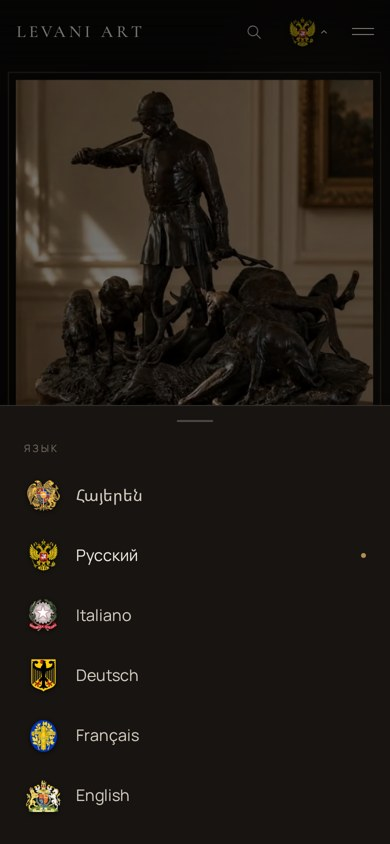
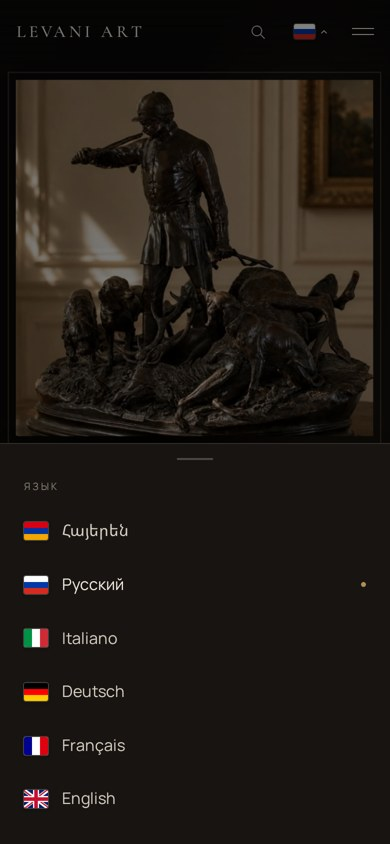
LEVANI ART: переключатель языков — флаги вместо гербов
По просьбе владельца гербы заменены флагами (только флаги): Армения,
Россия, Италия, Германия, Франция, Великобритания для English. SVG 4:3
из flag-icons (npm coat-of-arms, MIT), каждый меньше 1 КБ, в
public/flags. Скруглённые углы и тонкая светлая обводка, чтобы белые
полосы читались на тёмном фоне. Header, меню, bottom sheet на телефоне,
мобильное меню и футер. Гербы (public/emblems) удалены.

Тесты: e2e 64/64, smoke-набор 58/58 локально (проверяет флаг каждого
языка и отсутствие старых гербов).

Claude-Session: https://claude.ai/code/session_01CK4YWyoSurhNeFzWMvfBhv

diff --git a/sites/levani-art/tests/smoke/production.spec.ts b/sites/levani-art/tests/smoke/production.spec.ts
@@ -2,7 +2,7 @@ import { expect, test, type Page } from '@playwright/test';
 import source from '../../src/content/catalog.source.json';
 
 const LOCALES = ['hy', 'ru', 'it', 'de', 'fr', 'en'] as const;
-const EMBLEM: Record<string, string> = { hy: 'am', ru: 'ru', it: 'it', de: 'de', fr: 'fr', en: 'gb' };
+const FLAG: Record<string, string> = { hy: 'am', ru: 'ru', it: 'it', de: 'de', fr: 'fr', en: 'gb' };
 const NAMES: Record<string, string> = {
   hy: 'Հայերեն', ru: 'Русский', it: 'Italiano', de: 'Deutsch', fr: 'Français', en: 'English',
 };
@@ -79,7 +79,7 @@ test('root / sends the visitor to a language', async ({ page }) => {
 });
 
 for (const l of LOCALES) {
-  test(`${l}: home — lang, SEO, emblem, images, no overflow, no /_next/image`, async ({ page }) => {
+  test(`${l}: home — lang, SEO, flag, images, no overflow, no /_next/image`, async ({ page }) => {
     const hits = watchOptimizer(page);
     const res = await page.goto(`/${l}/`);
     expect(res?.status()).toBe(200);
@@ -95,8 +95,9 @@ for (const l of LOCALES) {
     await expect(page.locator('meta[property="og:title"]')).toHaveAttribute('content', /LEVANI ART/);
     await expect(page.locator('meta[property="og:url"]')).toHaveAttribute('content', `${base}/${l}/`);
     await expect(page.locator('meta[name="twitter:card"]')).toHaveCount(1);
-    const emblem = page.locator('.lang__trigger img.emblem');
-    await expect(emblem).toHaveAttribute('src', `/emblems/${EMBLEM[l]}.webp`);
+    const flag = page.locator('.lang__trigger img.flag');
+    await expect(flag).toHaveAttribute('src', `/flags/${FLAG[l]}.svg`);
+    await expect(page.locator('img[src*="/emblems/"]')).toHaveCount(0);
     await scrollThrough(page);
     await expect.poll(() => brokenImages(page)).toEqual([]);
     expect(await page.evaluate(() => document.documentElement.scrollWidth - window.innerWidth)).toBeLessThanOrEqual(0);
@@ -105,7 +106,7 @@ for (const l of LOCALES) {
     expect(hits).toEqual([]);
   });
 
-  test(`${l}: language selector — arms only, caret, 6 languages, switching works`, async ({ page }) => {
+  test(`${l}: language selector — flags only, caret, 6 languages, switching works`, async ({ page }) => {
     await page.goto(`/${l}/collection/`);
     const trigger = page.locator('.lang__trigger');
     await expect(page.locator('header select')).toHaveCount(0);
@@ -124,8 +125,8 @@ for (const l of LOCALES) {
     await expect(menu).toBeVisible();
     for (const o of LOCALES) {
       const item = page.getByRole('menuitemradio', { name: NAMES[o] });
-      const img = item.locator('img.emblem');
-      await expect(img).toHaveAttribute('src', `/emblems/${EMBLEM[o]}.webp`);
+      const img = item.locator('img.flag');
+      await expect(img).toHaveAttribute('src', `/flags/${FLAG[o]}.svg`);
       await expect.poll(() => img.evaluate((i: HTMLImageElement) => i.complete && i.naturalWidth > 0)).toBe(true);
     }
     if (!isDesktop(page)) {

diff --git a/sites/levani-art/tests/e2e/i18n.spec.ts b/sites/levani-art/tests/e2e/i18n.spec.ts
@@ -42,29 +42,30 @@ test.describe('locale routing', () => {
 });
 
 test.describe('language selector', () => {
-  test('closed state is the coat of arms and a caret — no text, no native select', async ({ page }) => {
+  test('closed state is the flag and a caret — no text, no native select', async ({ page }) => {
     await page.goto('/en');
     const trigger = page.locator('.lang__trigger');
-    await expect(trigger.locator('img.emblem')).toHaveAttribute('src', '/emblems/gb.webp');
+    await expect(trigger.locator('img.flag')).toHaveAttribute('src', '/flags/gb.svg');
     await expect(trigger.locator('.lang__caret svg')).toHaveCount(1);
-    // The arms image must actually load (not a broken image).
-    const loaded = await trigger.locator('img.emblem').evaluate((img: HTMLImageElement) => img.complete && img.naturalWidth > 0);
+    // The flag must actually load (not a broken image).
+    const loaded = await trigger.locator('img.flag').evaluate((img: HTMLImageElement) => img.complete && img.naturalWidth > 0);
     expect(loaded).toBe(true);
     const nameWidth = await trigger.locator('.lang__name').evaluate((el) => el.getBoundingClientRect().width);
     expect(nameWidth).toBe(0);
     await expect(page.locator('header select')).toHaveCount(0);
-    await expect(page.locator('img[src*="flag"], [class*="flag"]')).toHaveCount(0);
+    // Flags only: the old coat-of-arms images are gone.
+    await expect(page.locator('img[src*="/emblems/"]')).toHaveCount(0);
   });
 
-  test('every language shows its own official arms', async ({ page }) => {
+  test('every language shows its own flag', async ({ page }) => {
     await page.goto('/en/about');
     await page.locator('.lang__trigger').click();
     const expected: Record<string, string> = {
       'Հայերեն': 'am', 'Русский': 'ru', 'Italiano': 'it', 'Deutsch': 'de', 'Français': 'fr', 'English': 'gb',
     };
     for (const [name, code] of Object.entries(expected)) {
-      const img = page.getByRole('menuitemradio', { name }).locator('img.emblem');
-      await expect(img).toHaveAttribute('src', `/emblems/${code}.webp`);
+      const img = page.getByRole('menuitemradio', { name }).locator('img.flag');
+      await expect(img).toHaveAttribute('src', `/flags/${code}.svg`);
       await expect.poll(() => img.evaluate((i: HTMLImageElement) => i.complete && i.naturalWidth > 0)).toBe(true);
     }
   });

diff --git a/sites/levani-art/src/i18n/config.ts b/sites/levani-art/src/i18n/config.ts
@@ -16,18 +16,19 @@ export const i18nConfig = {
   cookieMaxAgeSeconds: 60 * 60 * 24 * 365,
 } as const;
 
-export type EmblemId = 'AM' | 'RU' | 'IT' | 'DE' | 'FR' | 'GB';
+/** File name in public/flags; English uses the United Kingdom's flag. */
+export type FlagId = 'am' | 'ru' | 'it' | 'de' | 'fr' | 'gb';
 
 export const localeMeta: Record<
   Locale,
-  { nativeName: string; emblem: EmblemId; htmlLang: string; ogLocale: string }
+  { nativeName: string; flag: FlagId; htmlLang: string; ogLocale: string }
 > = {
-  hy: { nativeName: 'Հայերեն', emblem: 'AM', htmlLang: 'hy', ogLocale: 'hy_AM' },
-  ru: { nativeName: 'Русский', emblem: 'RU', htmlLang: 'ru', ogLocale: 'ru_RU' },
-  it: { nativeName: 'Italiano', emblem: 'IT', htmlLang: 'it', ogLocale: 'it_IT' },
-  de: { nativeName: 'Deutsch', emblem: 'DE', htmlLang: 'de', ogLocale: 'de_DE' },
-  fr: { nativeName: 'Français', emblem: 'FR', htmlLang: 'fr', ogLocale: 'fr_FR' },
-  en: { nativeName: 'English', emblem: 'GB', htmlLang: 'en', ogLocale: 'en_GB' },
+  hy: { nativeName: 'Հայերեն', flag: 'am', htmlLang: 'hy', ogLocale: 'hy_AM' },
+  ru: { nativeName: 'Русский', flag: 'ru', htmlLang: 'ru', ogLocale: 'ru_RU' },
+  it: { nativeName: 'Italiano', flag: 'it', htmlLang: 'it', ogLocale: 'it_IT' },
+  de: { nativeName: 'Deutsch', flag: 'de', htmlLang: 'de', ogLocale: 'de_DE' },
+  fr: { nativeName: 'Français', flag: 'fr', htmlLang: 'fr', ogLocale: 'fr_FR' },
+  en: { nativeName: 'English', flag: 'gb', htmlLang: 'en', ogLocale: 'en_GB' },
 };
 
 export function isLocale(value: string | undefined | null): value is Locale {

diff --git a/sites/levani-art/src/components/LanguageSelector.tsx b/sites/levani-art/src/components/LanguageSelector.tsx
@@ -6,7 +6,7 @@ import { useEffect, useId, useRef, useState } from 'react';
 import { i18nConfig, localeMeta, locales, type Locale } from '@/i18n/config';
 import { swapLocaleInPath } from '@/i18n/negotiate';
 import { fill } from '@/i18n/plural';
-import { Emblem } from './Emblem';
+import { Flag } from './Flag';
 import { Chevron } from './Icons';
 
 export function rememberLocale(locale: Locale) {
@@ -15,7 +15,7 @@ export function rememberLocale(locale: Locale) {
 }
 
 /**
- * Closed: the current emblem and a small caret. Hover or keyboard focus
+ * Closed: the current language's flag and a small caret. Hover or keyboard focus
  * reveals the native language name; click or tap opens the list.
  */
 export function LanguageSelector({
@@ -84,7 +84,7 @@ export function LanguageSelector({
           }
         }}
       >
-        <Emblem id={current.emblem} size={28} eager />
+        <Flag id={current.flag} size={16} eager />
         <span className="lang__name" aria-hidden="true">
           {current.nativeName}
         </span>
@@ -126,9 +126,7 @@ export function LanguageSelector({
                 setOpen(false);
               }}
             >
-              <span className="emblem-box emblem-box--menu">
-                <Emblem id={meta.emblem} size={32} />
-              </span>
+              <Flag id={meta.flag} size={18} />
               <span>{meta.nativeName}</span>
               {selected ? <span className="lang__dot" aria-hidden="true" /> : null}
             </Link>

diff --git a/sites/levani-art/src/app/globals.css b/sites/levani-art/src/app/globals.css
@@ -442,37 +442,25 @@ main {
   cursor: pointer;
   color: var(--ivory-dim);
 }
-.emblem {
+.flag {
   display: block;
   flex: none;
   max-width: none;
-  object-fit: contain;
-  filter: drop-shadow(0 1px 2px rgb(0 0 0 / 0.55));
+  border-radius: 2px;
+  /* A hairline edge keeps white stripes (Russia, France, Italy) legible on
+     the dark ground. */
+  box-shadow:
+    0 0 0 1px rgb(242 236 226 / 0.22),
+    0 1px 3px rgb(0 0 0 / 0.5);
   user-select: none;
 }
-/* Arms differ in width (Germany is narrow, the UK wide); a fixed box keeps
-   the language names aligned in lists. */
-.emblem-box {
-  display: inline-grid;
-  place-items: center;
-  flex: none;
-}
-.emblem-box--menu {
-  width: 38px;
-}
-.emblem-box--mobile {
-  width: 30px;
-}
-.emblem-box--footer {
-  width: 24px;
-}
-.lang__trigger .emblem {
+.lang__trigger .flag {
   transition: transform 0.25s var(--ease);
 }
-.lang__trigger:hover .emblem {
-  transform: scale(1.06);
+.lang__trigger:hover .flag {
+  transform: translateY(-1px);
 }
-/* The native name slides out beside the emblem on hover/focus only. */
+/* The native name slides out beside the flag on hover/focus only. */
 .lang__name {
   display: inline-block;
   max-width: 0;

diff --git a/sites/levani-art/src/components/Flag.tsx b/sites/levani-art/src/components/Flag.tsx
@@ -1,0 +1,36 @@
+import type { FlagId } from '@/i18n/config';
+
+/**
+ * Language flags (4:3), from the flag-icons set shipped in the
+ * `coat-of-arms` npm package (MIT). Plain SVG files in public/flags — each
+ * well under 1 KB. English uses the flag of the United Kingdom.
+ */
+export function Flag({
+  id,
+  size = 16,
+  title,
+  className,
+  eager = false,
+}: {
+  id: FlagId;
+  /** Rendered height in px; width is 4:3. */
+  size?: number;
+  /** Omit when the flag sits next to visible text (decorative). */
+  title?: string;
+  className?: string;
+  eager?: boolean;
+}) {
+  return (
+    // Plain <img>: a sub-kilobyte SVG needs no image pipeline.
+    <img
+      className={['flag', className].filter(Boolean).join(' ')}
+      src={`/flags/${id}.svg`}
+      width={Math.round((size * 4) / 3)}
+      height={size}
+      alt={title ?? ''}
+      loading={eager ? 'eager' : 'lazy'}
+      decoding="async"
+      draggable={false}
+    />
+  );
+}

diff --git a/sites/levani-art/src/components/Header.tsx b/sites/levani-art/src/components/Header.tsx
@@ -7,7 +7,7 @@ import { localeMeta, locales, type Locale } from '@/i18n/config';
 import { swapLocaleInPath } from '@/i18n/negotiate';
 import type { SearchEntry } from '@/lib/search';
 import { Wordmark } from './Brand';
-import { Emblem } from './Emblem';
+import { Flag } from './Flag';
 import { CloseIcon, SearchIcon } from './Icons';
 import { LanguageSelector, rememberLocale } from './LanguageSelector';
 import { SearchOverlay, type SearchLabels } from './SearchOverlay';
@@ -181,9 +181,7 @@ export function Header({
                     setMenuOpen(false);
                   }}
                 >
-                  <span className="emblem-box emblem-box--mobile">
-                    <Emblem id={localeMeta[l].emblem} size={26} />
-                  </span>
+                  <Flag id={localeMeta[l].flag} size={15} />
                   {localeMeta[l].nativeName}
                 </Link>
               </li>

diff --git a/sites/levani-art/src/components/Footer.tsx b/sites/levani-art/src/components/Footer.tsx
@@ -4,7 +4,7 @@ import type { Dictionary } from '@/i18n/dictionaries';
 import { site } from '@/content/site';
 import { LogoPlate } from './Brand';
 import { ContactChannels } from './ContactChannels';
-import { Emblem } from './Emblem';
+import { Flag } from './Flag';
 
 export function Footer({ locale, dict }: { locale: Locale; dict: Dictionary }) {
   const f = dict.footer;
@@ -73,9 +73,7 @@ export function Footer({ locale, dict }: { locale: Locale; dict: Dictionary }) {
                 hrefLang={localeMeta[l].htmlLang}
                 aria-current={l === locale ? 'true' : undefined}
               >
-                <span className="emblem-box emblem-box--footer">
-                  <Emblem id={localeMeta[l].emblem} size={20} />
-                </span>
+                <Flag id={localeMeta[l].flag} size={12} />
                 {localeMeta[l].nativeName}
               </Link>
             </li>

diff --git a/sites/levani-art/tests/e2e/mobile.spec.ts b/sites/levani-art/tests/e2e/mobile.spec.ts
@@ -3,7 +3,7 @@ import { expect, test } from '@playwright/test';
 test.describe('mobile', () => {
   test.skip(({ viewport }) => (viewport?.width ?? 0) > 500, 'phone-only behaviour');
 
-  test('tapping the emblem opens the language sheet', async ({ page }) => {
+  test('tapping the flag opens the language sheet', async ({ page }) => {
     await page.goto('/ru');
     await page.locator('.lang__trigger').tap();
     const panel = page.getByRole('menu');

diff --git a/sites/levani-art/src/components/Icons.tsx b/sites/levani-art/src/components/Icons.tsx
@@ -21,7 +21,7 @@ export const CloseIcon = ({ size = 18 }: { size?: number }) => (
   </svg>
 );
 
-/** The small caret beside the language emblem. */
+/** The small caret beside the language flag. */
 export const Chevron = ({ size = 8 }: { size?: number }) => (
   <svg width={size} height={size} viewBox="0 0 10 10" {...base} strokeWidth={1.3}>
     <path d="M2 3.8 5 6.6 8 3.8" />

diff --git a/sites/levani-art/CONTENT_TODO.md b/sites/levani-art/CONTENT_TODO.md
@@ -35,10 +35,8 @@ until supplied.
 - [ ] Vector (SVG) or transparent PNG logo — the current files are raster crops from a social-media screenshot.
 - [ ] Confirm the brand spelling "LEVANI ART" (as on the emblem).
 
-## Language emblems — decision needed
-- [ ] The language selector shows the official state arms of Armenia, Russia, Italy (emblem), Germany, France (de facto emblem — France has no coat of arms) and the Royal Coat of Arms of the UK. Several countries restrict commercial use of state arms (the UK Royal Arms in particular). Confirm with a lawyer before launch.
-- [x] Russia: kept the golden double-headed eagle without the red shield behind it (decided 24.09; at 28–32 px the eagle alone reads better).
-- [x] France: the de facto state emblem (fasces) is used (decided 24.09).
+## Language flags
+- [x] 24.09: the owner asked to replace the coats of arms with flags. The selector shows flags only (Armenia, Russia, Italy, Germany, France, United Kingdom for English).
 
 ## Translations
 - [ ] Native review of Armenian (`hy.ts`) before launch; ideally also ru/it/de/fr.

diff --git a/sites/levani-art/README.md b/sites/levani-art/README.md
@@ -76,12 +76,11 @@ browser language, otherwise English; a manual choice is remembered in the
 `LEVANI_LOCALE` cookie. Switch detection or persistence off in
 `src/i18n/config.ts`.
 
-The selector shows a heraldic emblem and a small caret; hover or keyboard
-focus reveals the native language name; click/tap opens the list (bottom sheet
-on phones). The emblems are the official state arms (`public/emblems/*.webp`,
-rendered from the SVGs of the `coat-of-arms` npm package, MIT); France, which
-has no coat of arms, uses its de facto state emblem, English uses the Royal
-Coat of Arms of the United Kingdom. See `components/Emblem.tsx`.
+The selector shows the current language's **flag** and a small caret; hover
+or keyboard focus reveals the native language name; click/tap opens the list
+(bottom sheet on phones). Flags are 4:3 SVGs in `public/flags/` (flag-icons,
+via the `coat-of-arms` npm package, MIT); English uses the flag of the United
+Kingdom. See `components/Flag.tsx`.
 
 ## Enquiries
 
